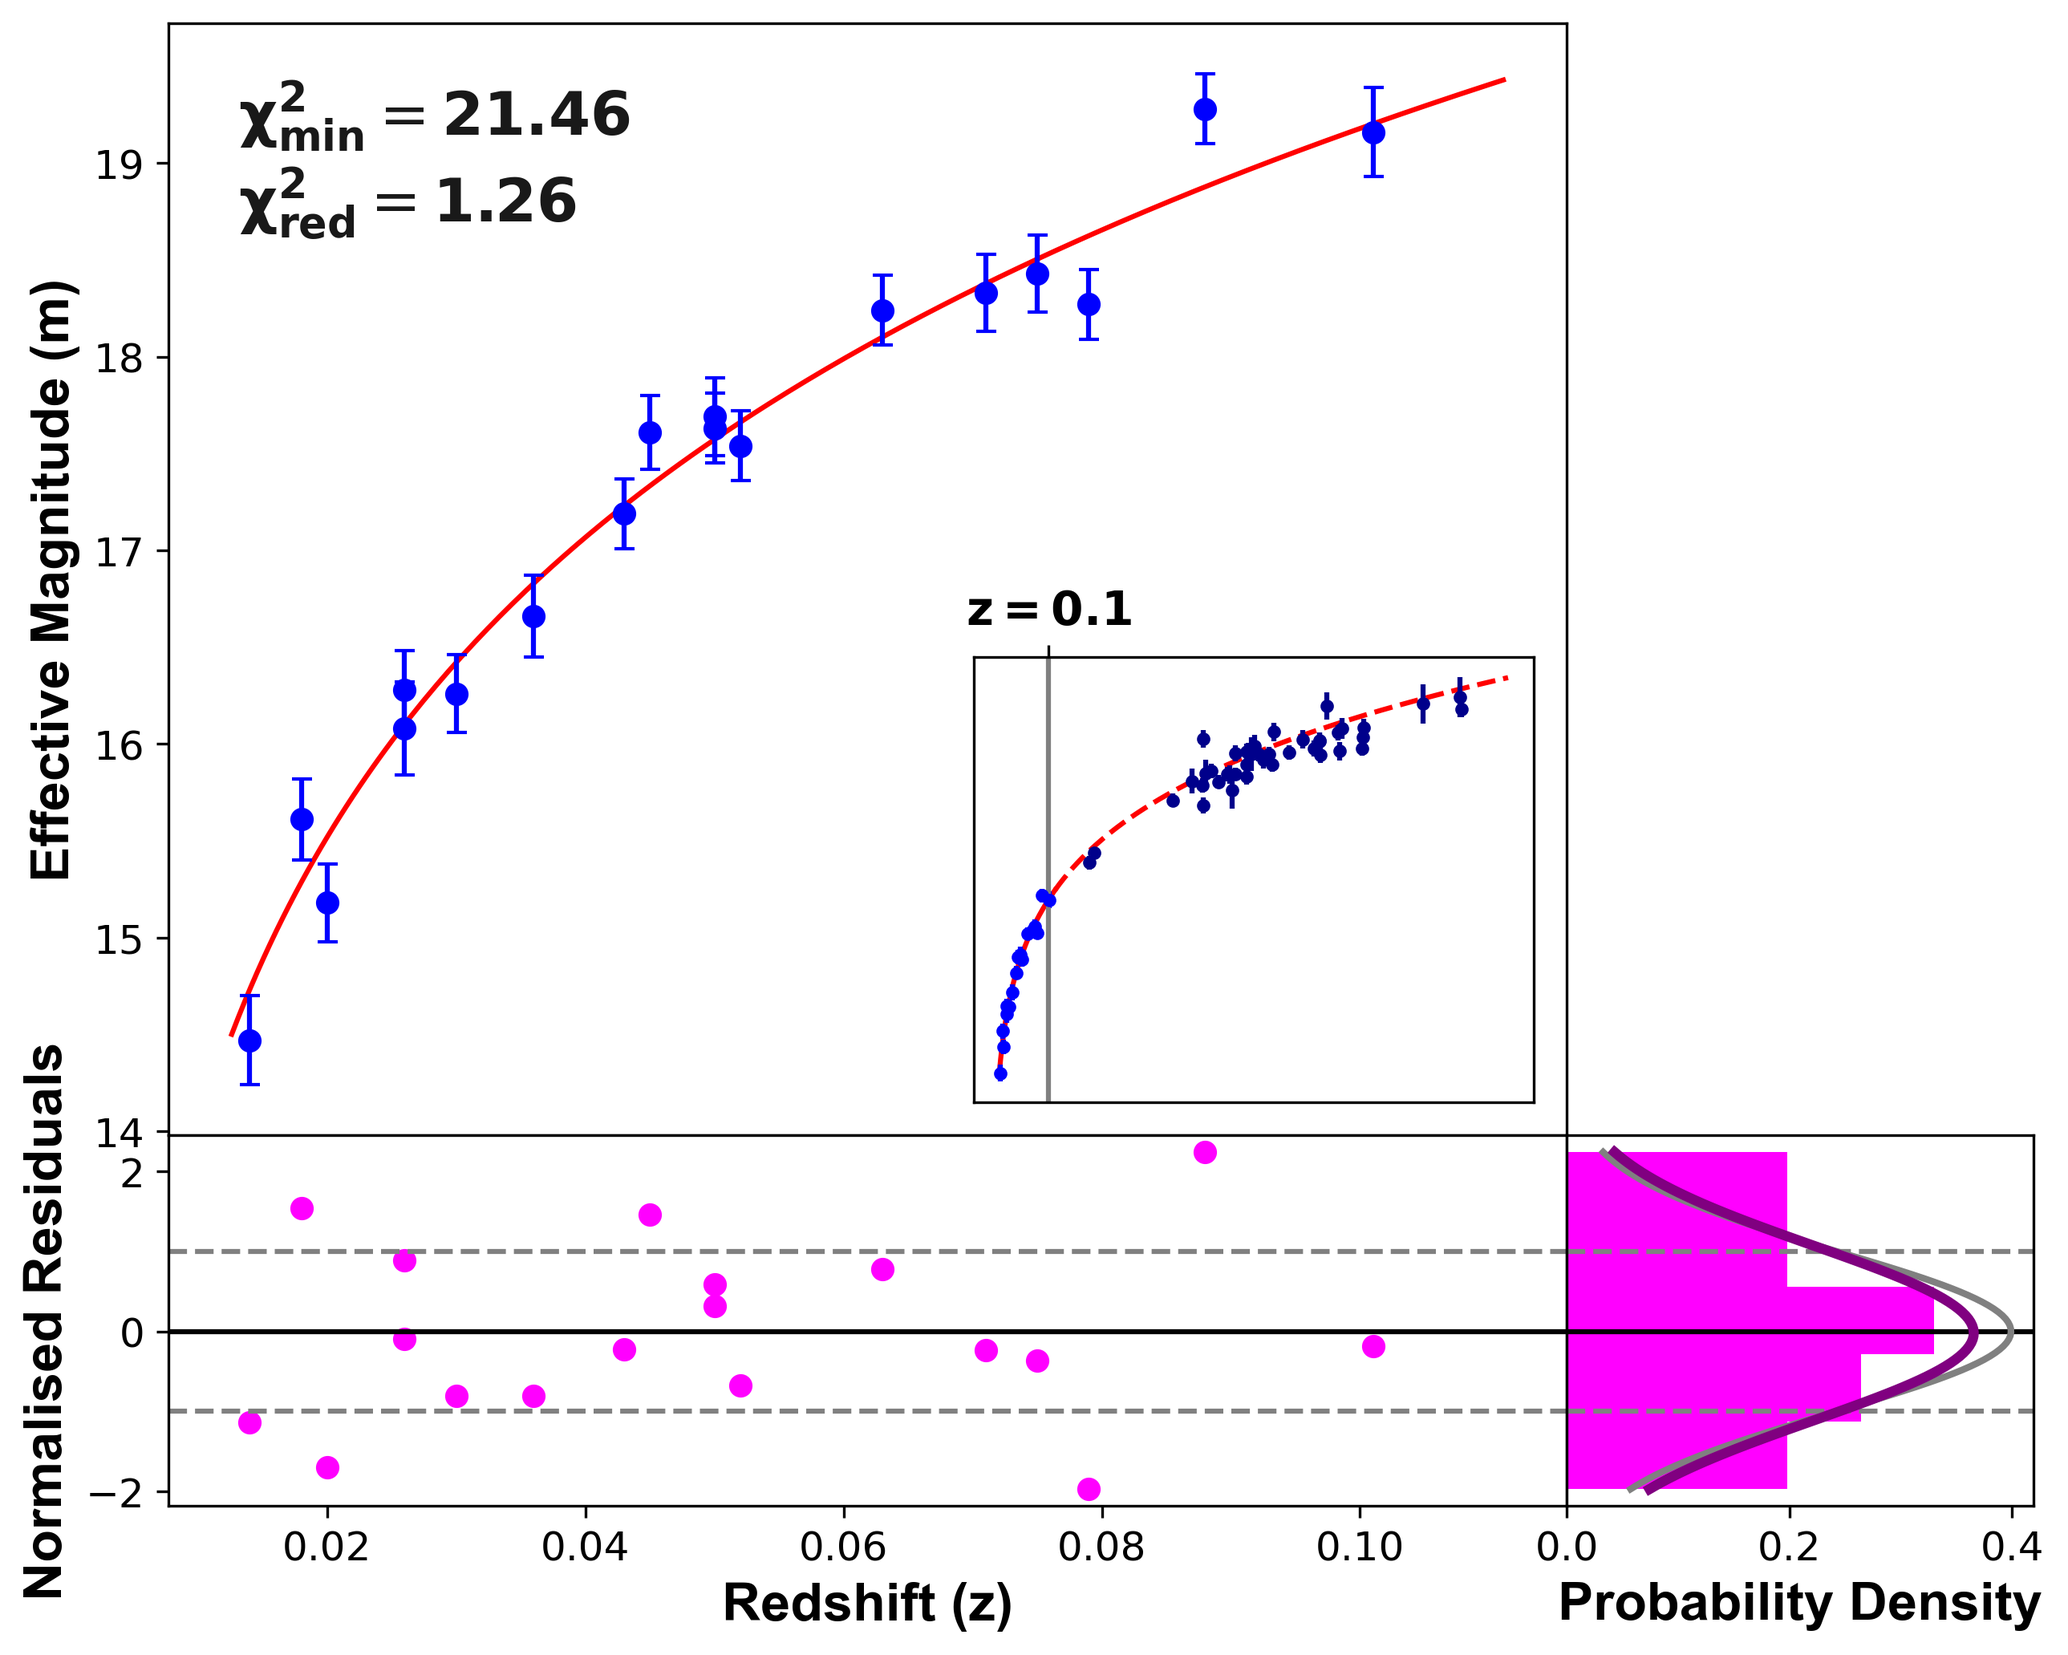
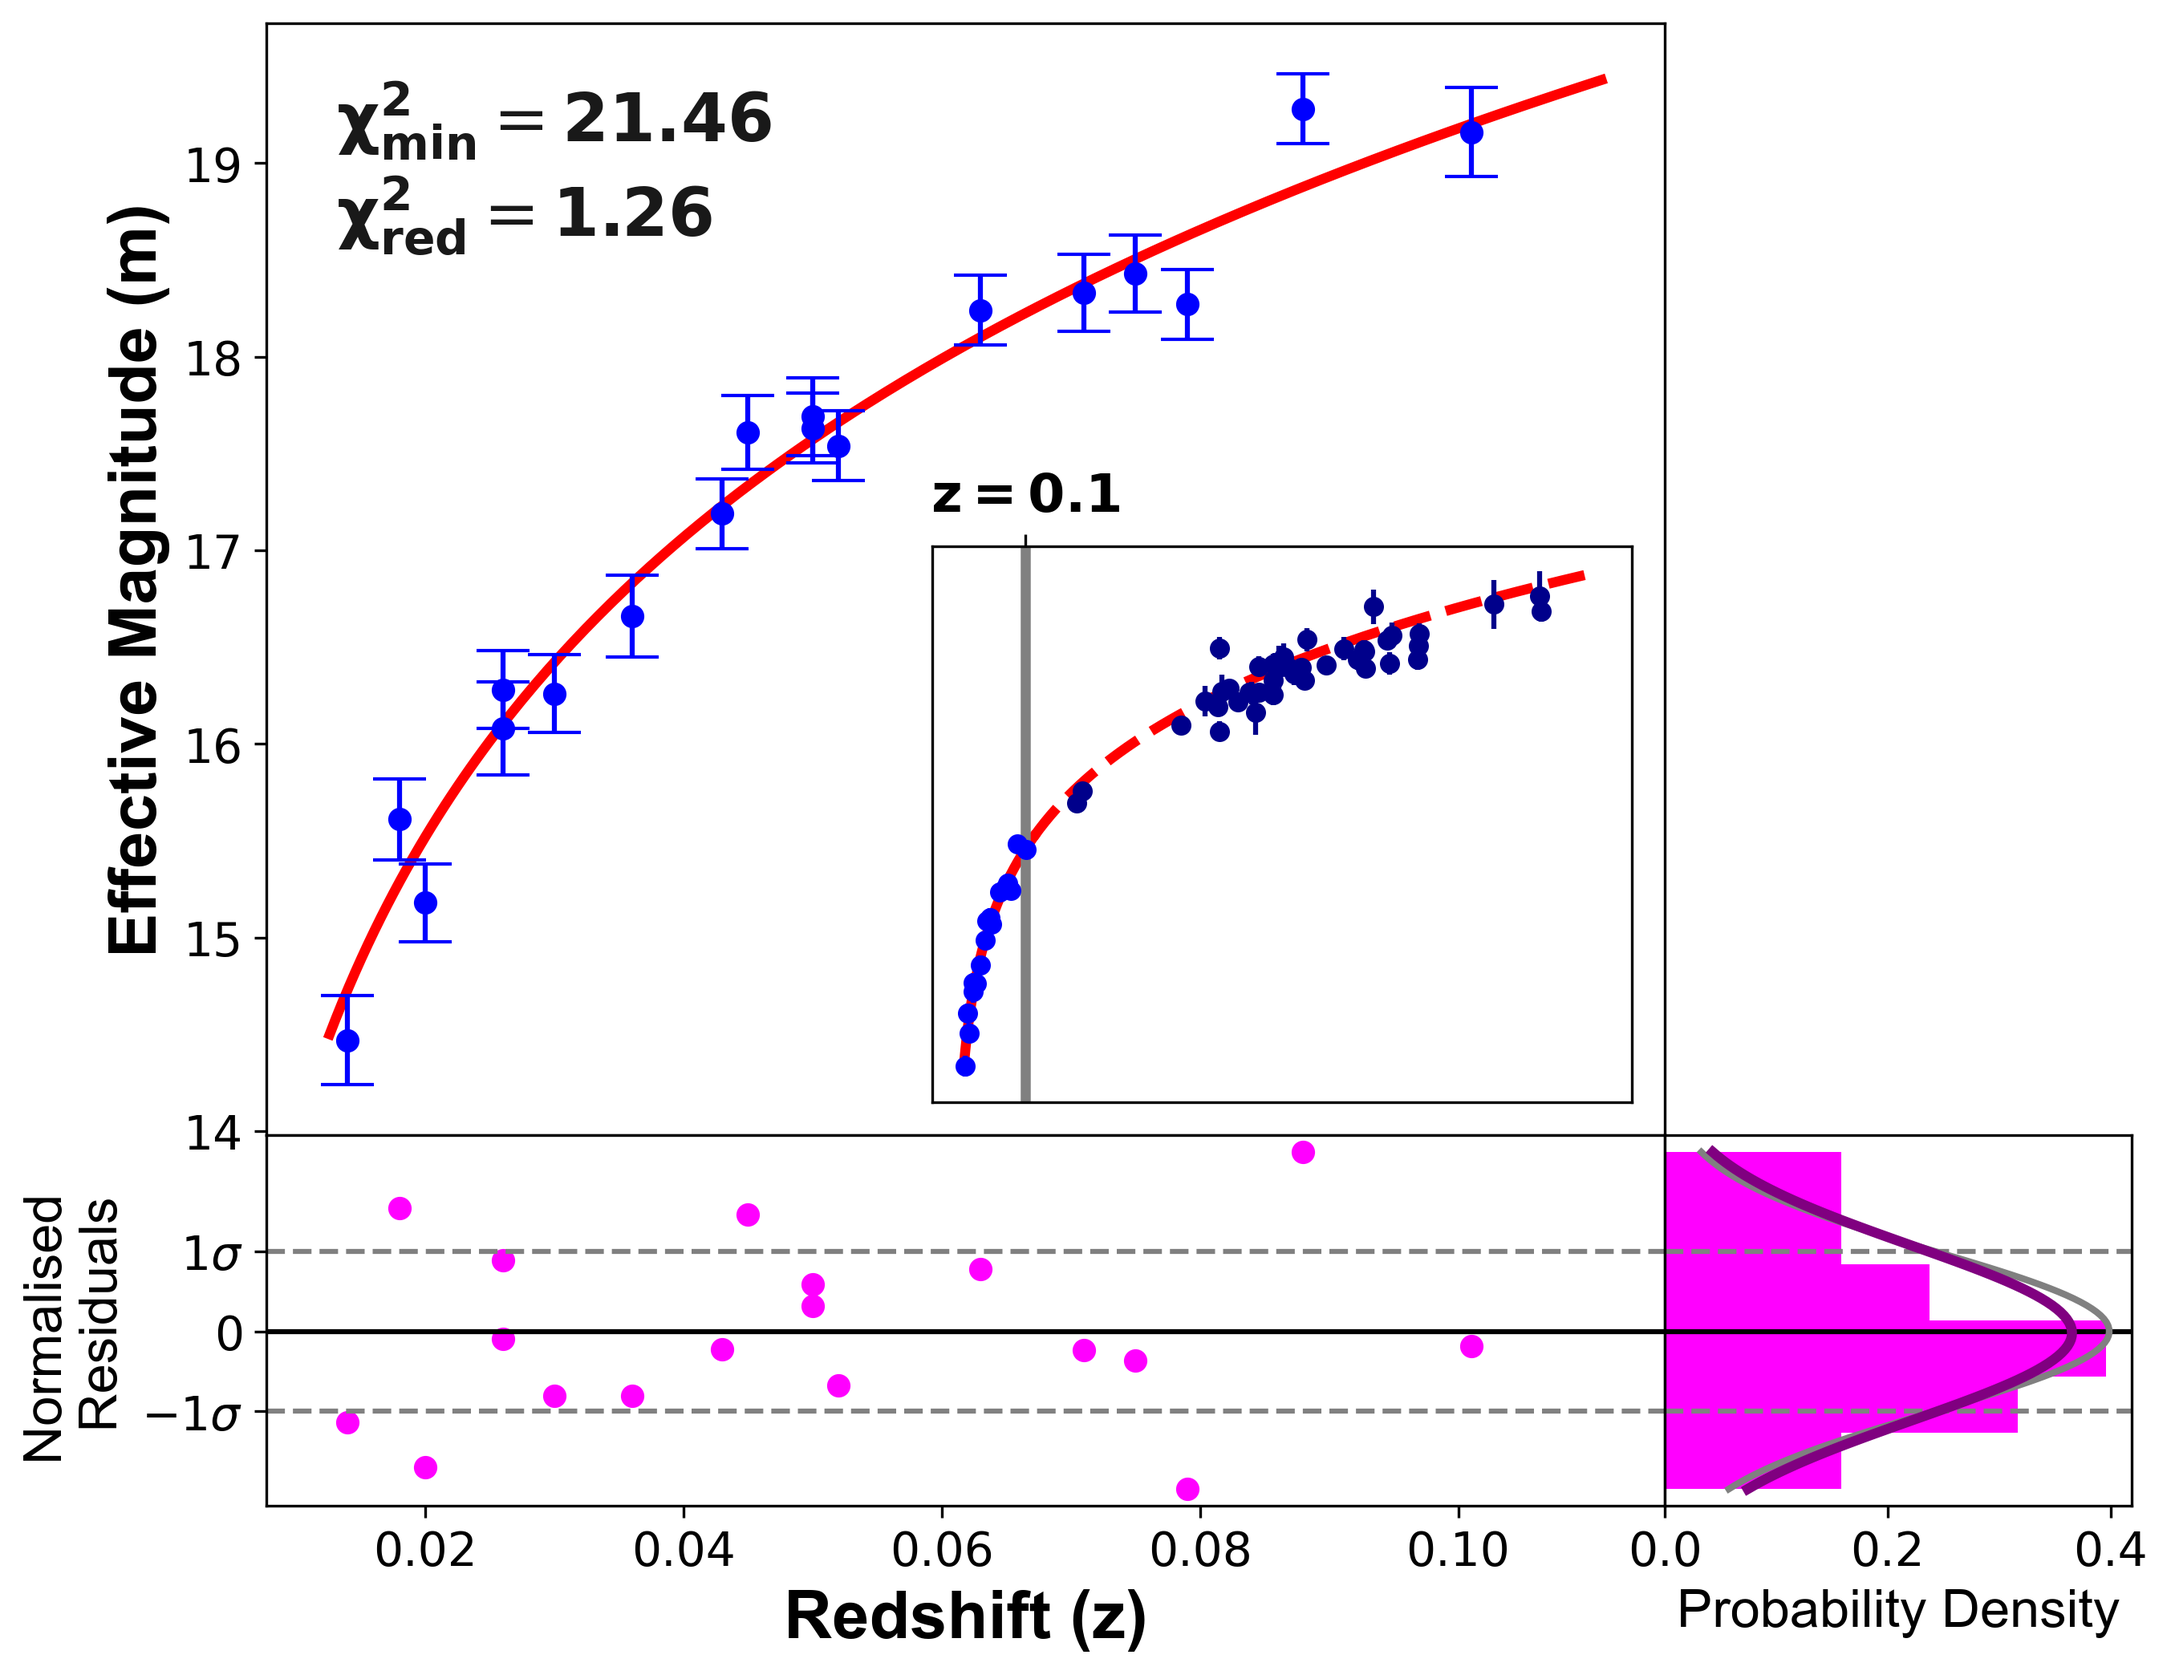
graph adjustments for poster

diff --git a/part1_plotting.py b/part1_plotting.py
@@ -88,8 +88,8 @@ ax2.plot(pdf_perf, y, color='grey', lw=2)
 ax2.plot(pdf_resid, y, color='purple', lw=3)
 ax2.set_xlabel('Probability Density',fontsize=16, fontweight='bold', fontname='Arial')
 ax2.tick_params(left=False, labelleft=False, labelsize=12)  
-fig.savefig("Poster_L_plot.png", dpi=300, bbox_inches='tight')
-plt.show()
+#fig.savefig("Poster_L_plot.png", dpi=300, bbox_inches='tight')
+#plt.show()
 
 
 #chi-squared for different peak luminosity values
@@ -112,4 +112,75 @@ ax.set_yticks([chi2_min, chi2_min+1,20,23,26,29])
 ax.set_yticklabels([r'$\mathbf{\chi^2_{min}}$',r'$\mathbf{\chi^2_{min}+1}$','20','23','26','29'])
 textstr = (r"$\mathbf{\chi^2_{min}} = \mathbf{" + f"{chi2_min:.2f}" + r"}$" + "\n" r"$\mathbf{\chi^2_{red}} = \mathbf{" + f"{chi2_red:.2f}" + r"}$")
 ax.text(0.6, 0.8, textstr,transform=ax0.transAxes,fontsize=16,verticalalignment='top',horizontalalignment='left',alpha=0.9)
+#plt.show()
+
+
+
+
+
+#for poster
+fig = plt.figure(figsize=(10, 8))
+gs = gridspec.GridSpec(2, 2,width_ratios=[3, 1],height_ratios=[3, 1],hspace=0,wspace=0)
+
+#data and model fit
+ax0 = fig.add_subplot(gs[0, 0]) 
+z_model = np.linspace(min(z_obs)*0.9, max(z_obs)*1.1, 200)
+m_model_vals = m_model(z_model, best_L)
+ax0.plot(z_model, m_model_vals, color='red', linewidth = 3, label='Best-fit model')
+ax0.errorbar(z_obs, m_obs, yerr=err, color = 'blue', fmt='o', label='Observed', capsize=8)
+ax0.set_ylabel('Effective Magnitude (m)',fontsize=20, fontweight='bold', fontname='Arial')
+ax0.tick_params(labelbottom=False, labelsize=14) 
+textstr = (r"$\mathbf{\chi^2_{min}} = \mathbf{" + f"{chi2_min:.2f}" + r"}$" + "\n" r"$\mathbf{\chi^2_{red}} = \mathbf{" + f"{chi2_red:.2f}" + r"}$")
+ax0.text(0.05, 0.95, textstr,transform=ax0.transAxes,fontsize=20,verticalalignment='top',horizontalalignment='left',alpha=0.9)
+
+#full data and model fit inset
+inset = inset_axes(ax0, width="50%", height="50%", loc='lower right', borderpad=1)
+inset.plot(z_model, m_model_vals, color='red', linewidth = 3)
+inset.errorbar(z_obs, m_obs, yerr=err, color = 'blue', fmt='o', markersize=5)
+z_model2 = np.linspace(max(z_obs)*1.1, max(z_obs2)*1.1, 200)
+m_model_vals2 = m_model(z_model2, best_L)
+inset.plot(z_model2, m_model_vals2, color='red', linestyle = '--', linewidth =3)
+inset.errorbar(z_obs2, m_obs2, yerr=err2, color = 'darkblue', fmt='o', markersize=5)
+x_mark = 0.1
+inset.axvline(x=x_mark, color='grey', linestyle='-', linewidth=3)
+inset.set_xticks([])  
+inset.set_yticks([])  
+inset.set_xticks([0.1])
+inset.set_xticklabels([r'$\mathbf{z=0.1}$'])
+inset.tick_params(axis='x', labelsize=16) 
+inset.xaxis.set_label_position('top') 
+inset.xaxis.tick_top() 
+
+#residuals
+ax1 = fig.add_subplot(gs[1, 0], sharex=ax0) 
+residuals = np.array((m_obs - m_model(z_obs, best_L)) / err)
+ax1.axhline(y=0, color='black')
+ax1.axhline(y=1, color='grey', linestyle='--')
+ax1.axhline(y=-1, color='grey', linestyle='--')
+ax1.scatter(z_obs, residuals, color='magenta')
+ax1.set_xlabel('Redshift (z)',fontsize=20, fontweight='bold', fontname='Arial')
+ax1.set_ylabel('Normalised \n Residuals',fontsize=16, fontname='Arial')
+ax1.xaxis.set_tick_params(labelsize=14)
+ax1.set_yticks([-1,0,1])
+ax1.set_yticklabels([r'$-1\sigma$', r'$0$', r'$1\sigma$'])
+ax1.yaxis.set_tick_params(labelsize=14)
+
+#histogram of residuals
+ax2 = fig.add_subplot(gs[1, 1], sharey=ax1) 
+ax2.hist(residuals, bins=6, color='magenta', orientation='horizontal', density=True)
+ax2.axhline(y=0, color='black')
+ax2.axhline(y=1, color='grey', linestyle='--')
+ax2.axhline(y=-1, color='grey', linestyle='--')
+y = np.linspace(min(residuals), max(residuals), 300)
+#model and actual Gaussian
+mu_resid, sigma_resid = np.mean(residuals), np.std(residuals)
+mu_perf, sigma_perf = 0, 1
+y = np.linspace(min(residuals), max(residuals), 100)
+pdf_resid = norm.pdf(y, mu_resid, sigma_resid)
+pdf_perf = norm.pdf(y, mu_perf, sigma_perf)
+ax2.plot(pdf_perf, y, color='grey', lw=2)
+ax2.plot(pdf_resid, y, color='purple', lw=3)
+ax2.set_xlabel('Probability Density',fontsize=16, fontname='Arial')
+ax2.tick_params(left=False, labelleft=False, labelsize=14)  
+fig.savefig("Poster_L_plot.png", dpi=300, bbox_inches='tight')
 plt.show()

diff --git a/part2_plotting.py b/part2_plotting.py
@@ -64,7 +64,7 @@ ax2.plot(pdf_resid, y, color='purple', lw=3)
 ax2.set_xlabel('Probability Density',fontsize=14, fontweight='bold', fontname='Arial')
 ax2.tick_params(left=False, labelleft=False)  
 
-plt.show()
+#plt.show()
 
 
 #chi-squared for different dark energy parameter values
@@ -87,5 +87,33 @@ ax.set_yticklabels([r'$\mathbf{\chi^2_{min}}$',r'$\mathbf{\chi^2_{min} + 1}$','8
 ax.tick_params(axis='both', labelsize=16) 
 textstr = (r"$\mathbf{\chi^2_{min}} = \mathbf{" + f"{chi2_min:.2f}" + r"}$" + "\n" r"$\mathbf{\chi^2_{red}} = \mathbf{" + f"{chi2_red:.2f}" + r"}$")
 ax.text(1.6, 2.6, textstr,transform=ax0.transAxes,fontsize=28,verticalalignment='top',horizontalalignment='left',alpha=0.9)
+#fig.savefig("Poster_OL_chi2.png", dpi=300, bbox_inches='tight')
+#plt.show()
+
+
+
+
+#for poster
+#chi-squared for different dark energy parameter values
+fig, ax = plt.subplots(figsize=(10, 8))
+ax.plot(Omega_L_values, chi2_values, linewidth=5, color='blue')
+ax.hlines(chi2_min, xmin=min(Omega_L_values), xmax=best_Omega_L,color='red', linestyles='-', linewidth=4)
+ax.hlines(chi2_min + 1, xmin=min(Omega_L_values), xmax=best_Omega_L+sigma_OL_plus,color='red', linestyles='--',linewidth=3)
+ax.vlines(best_Omega_L, ymin=0, ymax=chi2_min, color='red', linestyles='-',linewidth=4)
+ax.vlines(best_Omega_L + sigma_OL_plus, ymin=0, ymax=chi2_min+1,color='red', linestyles='--',linewidth=3)
+ax.vlines(best_Omega_L - sigma_OL_minus, ymin=0, ymax=chi2_min+1,color='red', linestyles='--',linewidth=3)
+#ax.fill_betweenx([chi2_min, chi2_min + 1],best_Omega_L - sigma_OL_minus,best_Omega_L + sigma_OL_plus,alpha=0.2)
+ax.set_xlabel('Dark Energy Density Parameter', fontsize=22, fontweight='bold', fontname='Arial')
+ax.set_ylabel(r'Minimised $\mathbf{\chi^2}$', fontsize=26, fontweight='bold', fontname='Arial')
+ax.yaxis.set_label_coords(-0.08, 0.7)
+ax.set_xlim(0.55,0.85)
+ax.set_xticks([best_Omega_L, 0.55, 0.65, 0.75,0.85])
+ax.set_xticklabels([r'$\mathbf{Best\ \Omega_{\Lambda,0}}$','0.55','0.65','0.75','0.85'])
+ax.set_ylim(80,86)
+ax.set_yticks([chi2_min, chi2_min+1, 80, 85])
+ax.set_yticklabels([r'$\mathbf{\chi^2_{min}}$',r'$\mathbf{\chi^2_{min} + 1}$','80','85'])
+ax.tick_params(axis='both', labelsize=18) 
+textstr = (r"$\mathbf{\chi^2_{min}} = \mathbf{" + f"{chi2_min:.2f}" + r"}$" + "\n" r"$\mathbf{\chi^2_{red}} = \mathbf{" + f"{chi2_red:.2f}" + r"}$")
+ax.text(1.9, 3.5, textstr,transform=ax0.transAxes,fontsize=28,verticalalignment='top',horizontalalignment='left',alpha=0.9)
 fig.savefig("Poster_OL_chi2.png", dpi=300, bbox_inches='tight')
 plt.show()

diff --git a/part1_results.py b/part1_results.py
@@ -25,6 +25,7 @@ sigma_L_minus = best_L - L_low
 sigma_L_plus = L_high - best_L
 average_error = (sigma_L_minus + sigma_L_plus) / 2
 
+print(best_L, average_error)
 #editing s.f. and d.p. for L and its error
 exponent = int(np.floor(np.log10(best_L.value)))
 scaled_L = best_L.value / 10**exponent
